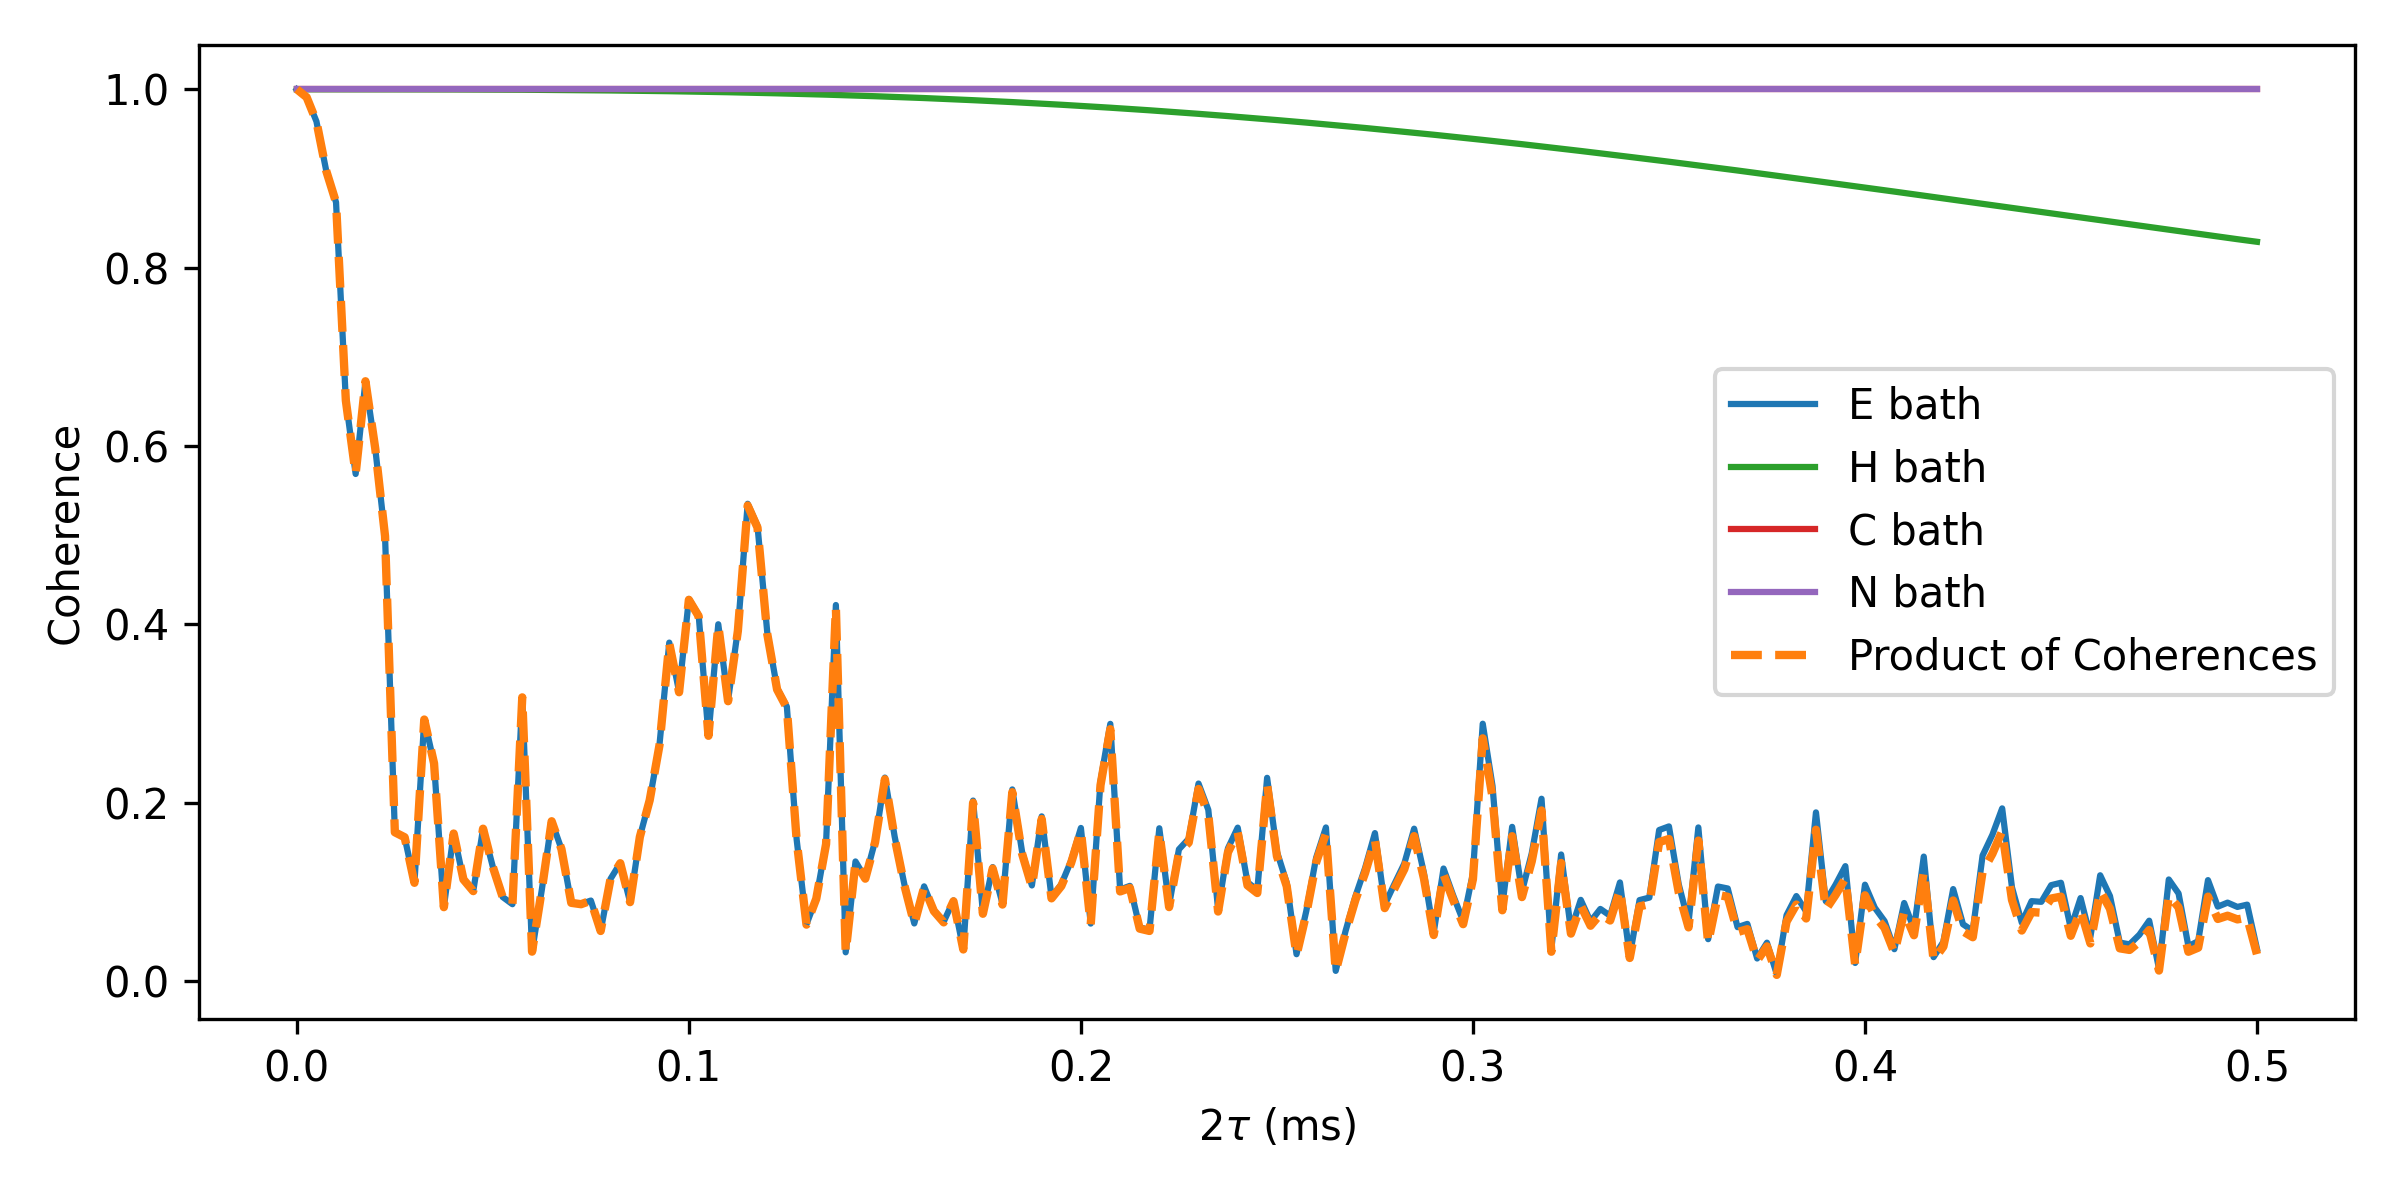
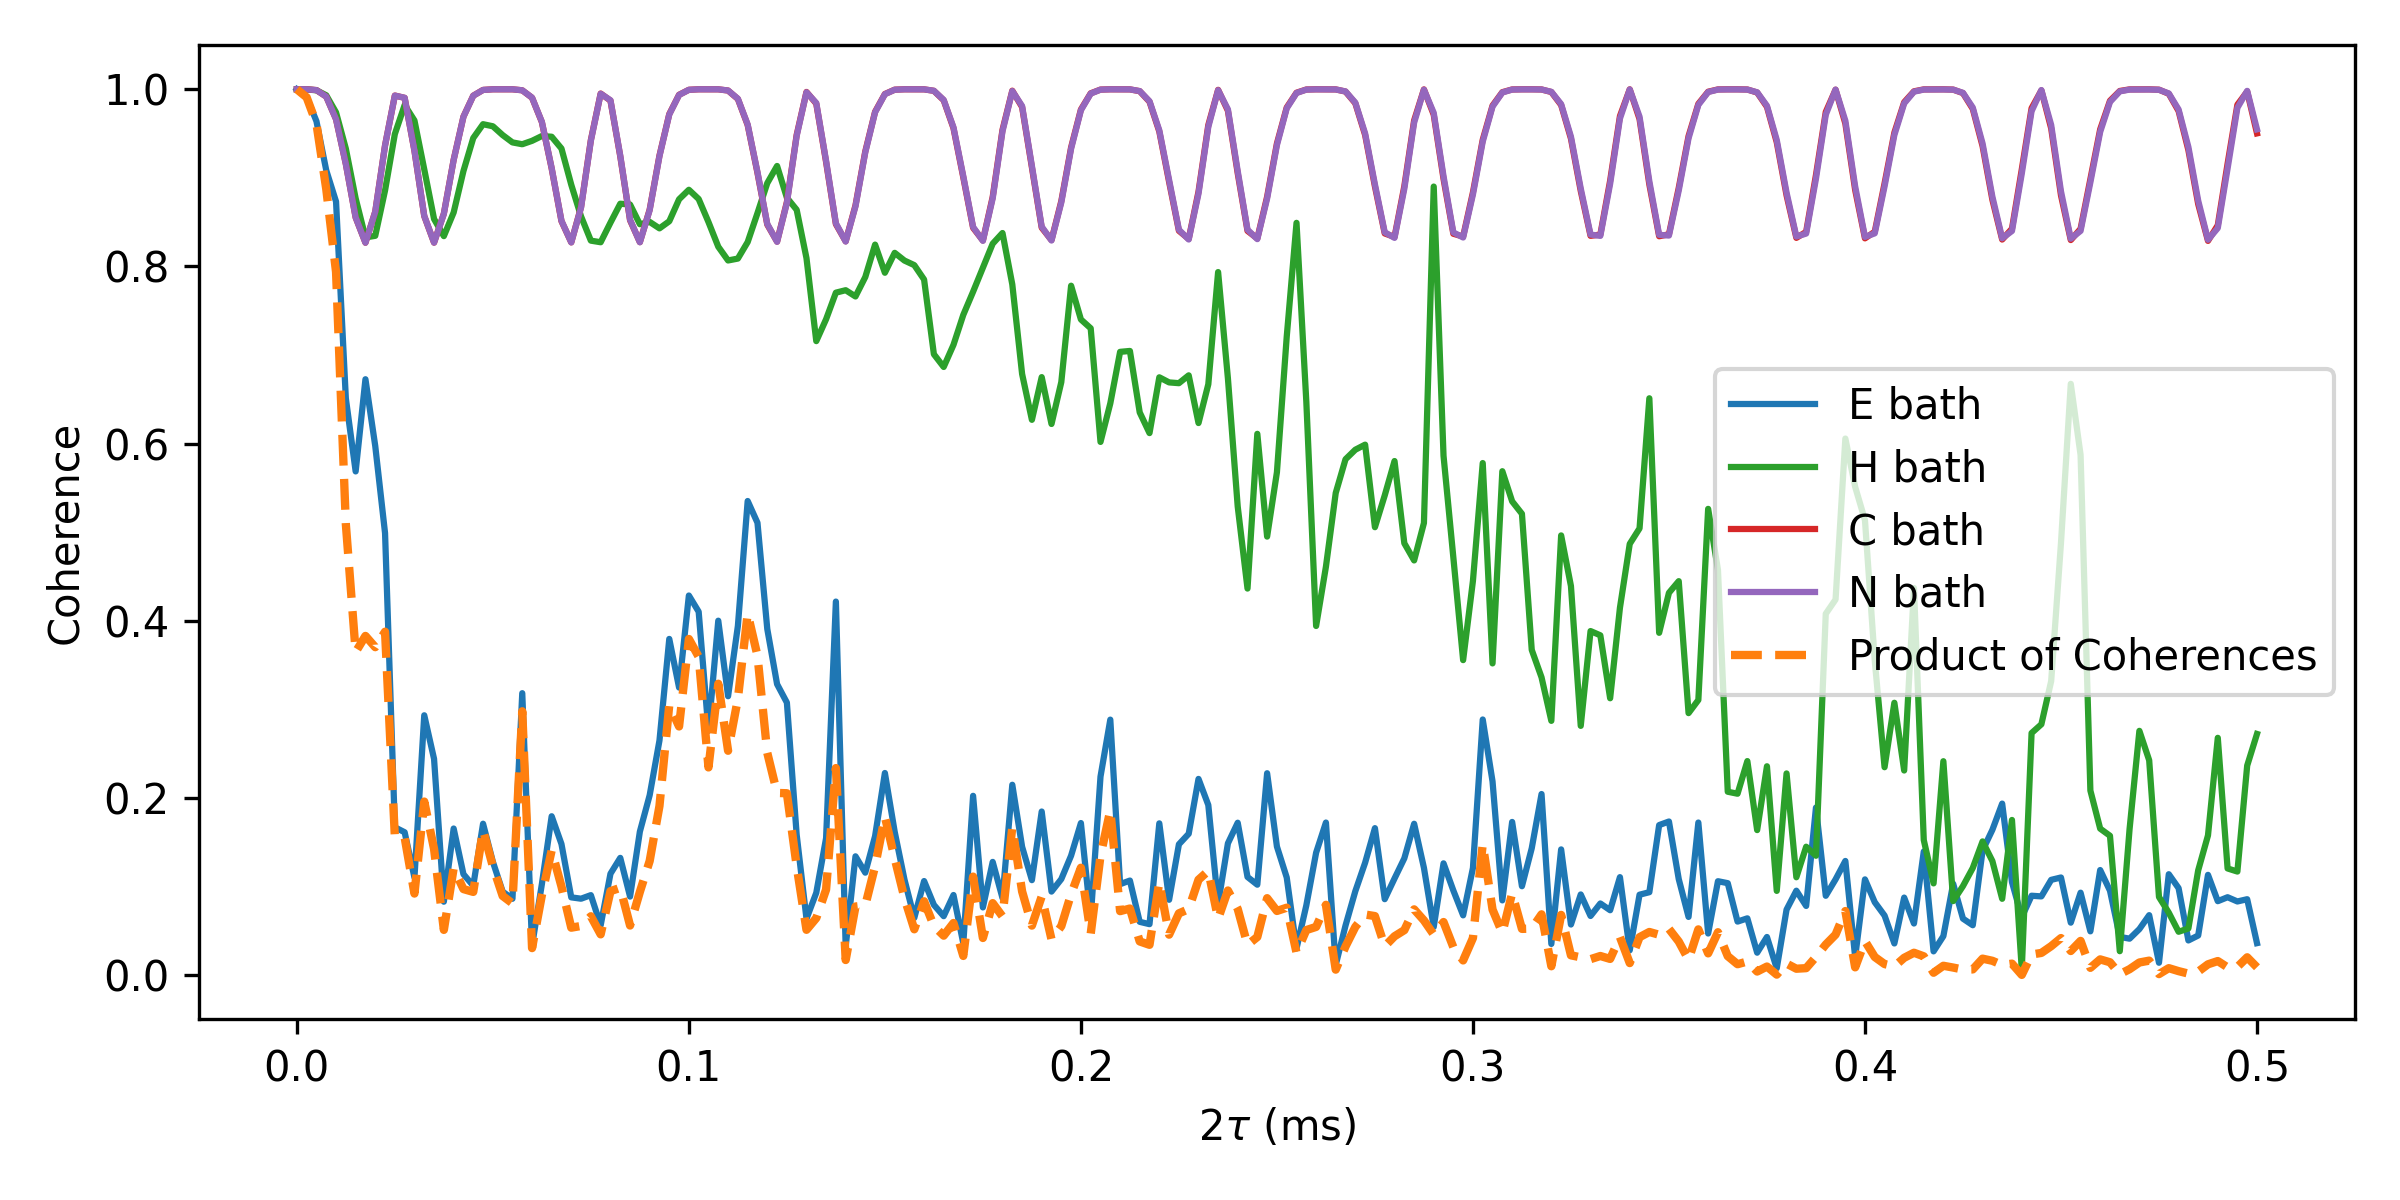
2pi/3 pulse affects nuclear curves considerably!

diff --git a/VOTPP folder/VOTPP_[n-e]-(n).py b/VOTPP folder/VOTPP_[n-e]-(n).py
@@ -139,15 +139,11 @@ nbstates_list = [128,]
 # r_dipole_list = [8,]
 # cell_size_list = [60,]
 
-timespace_absolute = np.linspace(0, 2, 101)
+timespace_absolute = np.linspace(0, 0.5, 201)
 
 hahn_echo_sequence = pc.Sequence([ 
-    pc.Pulse(axis='x', angle='pi/2', delay=np.zeros(timespace_absolute.size),
-                bath_names=('51V',
-                )), # 120° pulse around x-axis applied to bath spins),
-    pc.Pulse(axis='x', angle='pi', delay=timespace_absolute/2,
-                bath_names=('51V',
-                ))]) # 120° pulse around x-axis applied to bath spins ])
+    pc.Pulse(axis='x', angle='2*pi/3', delay=np.zeros(timespace_absolute.size),),
+    pc.Pulse(axis='x', angle='2*pi/3', delay=timespace_absolute/2,)])
 
 default_calc_parameters = {
     'timespace': timespace_absolute, # 7e-2
@@ -182,48 +178,39 @@ default_simulator_parameters = { ########## These should be greater when simulat
 
 magnetic_field_list = [[0,0,3000]]
 # magnetic_field_list = [[0,0,500], [0,0,800], [0,0,1200], [0,0,1500], [0,0,2000], [0,0,3000]]
-bath_type = 'C'
+bath_type = 'N'
+bath_type_list = ['C', 'N', 'H']
+
+if bath_type == 'C':
+    concentration_list = [1313,]
+    default_bath_parameters['concentration'] = 1313
+    r_bath_list = [20, 30, 40,]
+    r_dipole_list = [10, 20, 30,]
+    default_bath_parameters['cell_size'] = 500
+    default_simulator_parameters['r_bath'] = 30
+    default_simulator_parameters['r_dipole'] = 20
+
+elif bath_type == 'N':
+    concentration_list = [1414,]
+    default_bath_parameters['concentration'] = 1414
+    r_bath_list = [5, 10, 15, 20]
+    r_dipole_list = [5, 10, 15, 20]
+    default_bath_parameters['cell_size'] = 100
+    default_simulator_parameters['r_bath'] = 15
+    default_simulator_parameters['r_dipole'] = 5
+
+elif bath_type == 'H':
+    concentration_list = [1111,]
+    default_bath_parameters['concentration'] = 1111
+    r_bath_list = [5, 10, 15, 20]
+    r_dipole_list = [2, 5, 10, 15]
+    default_bath_parameters['cell_size'] = 100
+    default_simulator_parameters['r_bath'] = 10
+    default_simulator_parameters['r_dipole'] = 10
+
 #####################################################################
 # Set up runner and run the simulation
 #####################################################################
-
-# magnetic_field_list = [[500,0,0], [800,0,0], [1200,0,0], [1500,0,0], [2000,0,0], [3000,0,0]]
-# magnetic_field_list = [[0,0,500], [0,0,800], [0,0,1200], [0,0,1500], [0,0,2000], [0,0,3000]]
-# timespace_list = [np.linspace(0, 5e-2, 201), np.linspace(0, 5e-2, 201), np.linspace(0, 5e-2, 201), np.linspace(0, 1e-1, 201), np.linspace(0, 1e-1, 201), np.linspace(0, 1e-1, 201), ]
-# timespace_list = [np.linspace(0, 5e-2, 201), np.linspace(0, 5e-2, 201), np.linspace(0, 5e-2, 201), np.linspace(0, 7e-2, 201), np.linspace(0, 7e-2, 201), np.linspace(0, 7e-2, 201), ]
-
-
-# alphabeta_results = {}
-# for idx, alphabetas in enumerate(alpha_and_beta):
-#     # print(timespace_list[idx])
-#     if rank == 0:
-#         print("Alpha: {}, Beta: {}".format(alphabetas[0], alphabetas[1]))
-#     alphabeta_results[idx] = runner(
-#                         concentration_value=0,
-#                         changing_variable='magnetic_field', variable_values=magnetic_field_list,
-#                         num_spins=2,# spin_type='nuclear',
-#                         alpha=alphabetas[0], beta=alphabetas[1],
-#                         bath_parameters=default_bath_parameters, simulator_parameters=default_simulator_parameters, calc_parameters=default_calc_parameters,
-#                         changing_variable2='timespace', variable_values2=timespace_list[idx],
-#                         )
-    
-#     # Save the current state of alphabeta_results
-#     with open((str(path) + f'alphabeta_order2_results_{idx}.pkl'), 'wb') as f:
-#         pickle.dump(alphabeta_results, f)
-
-
-
-# magnetic_results = {}
-# for conc in concentration_list:
-#     magnetic_results[conc] = runner(
-#                         concentration_value=conc,
-#                         changing_variable='magnetic_field', variable_values=magnetic_field_list,
-#                         num_spins=2,# spin_type='electronic',
-#                         alpha = 4,
-#                         beta = 5,
-#                         bath_parameters=default_bath_parameters, simulator_parameters=default_simulator_parameters, calc_parameters=default_calc_parameters,
-#                         # changing_variable2='timespace', variable_values2=timespace_list,
-#                         )
 
 
 # # seed_list = [8000, 9000, 10000, 11000, 12000, 13000, 14000, 15000]
@@ -248,8 +235,8 @@ bath_type = 'C'
 #                         # concentration_value=seed, # !!!!!!!!!!!!!!!!!!!!!!!!!!!!!!!!!!!!!!!!!!!!!!!!!!!!!!!!!!!!!!!!!!!!!!
 #                         changing_variable='magnetic_field', variable_values=magnetic_field_list,
 #                         num_spins=2, #spin_type='nuclear',
-#                         alpha = 2, #
-#                         beta = 3, #
+#                         alpha = 4, #
+#                         beta = 5, #
 #                         bath_parameters=default_bath_parameters, simulator_parameters=default_simulator_parameters, calc_parameters=default_calc_parameters,
 #                         # changing_variable2='r_bath', variable_values2=r_bath_conc_list,
 #                         )
@@ -260,11 +247,11 @@ bath_type = 'C'
 #         print("Time taken: {} seconds".format(end - start))
 
 #     # Save the current state of results
-#     with open((str(path) + f'magnetic_results_AB1_{bath_type}_{idx}.pkl'), 'wb') as f:
+#     with open((str(path) + f'magnetic_results_AB3_{bath_type}_{idx}.pkl'), 'wb') as f:
 #         pickle.dump(magnetic_results, f)
 
 # if rank == 0:
-#     with open((str(path) + f'[n-e]-(n)_{bath_type}_AB1.pkl'), 'wb') as f:
+#     with open((str(path) + f'[n-e]-(n)_{bath_type}_AB3.pkl'), 'wb') as f:
 #         pickle.dump(magnetic_results, f)
 
 
@@ -585,108 +572,19 @@ bath_type = 'C'
 # if rank == 0:
 #     print("cell_size results done")
 
-if bath_type == 'C':
-    concentration_list = [1313,]
-    r_bath_list = [20, 30, 40,]
-    r_dipole_list = [10, 20, 30,]
-    default_bath_parameters['cell_size'] = 500
-    default_simulator_parameters['r_bath'] = 20
-    default_simulator_parameters['r_dipole'] = 10
 
-elif bath_type == 'N':
-    concentration_list = [1414,]
-    r_bath_list = [5, 10, 15, 20]
-    r_dipole_list = [5, 10, 15, 20]
-    default_bath_parameters['cell_size'] = 100
-    default_simulator_parameters['r_bath'] = 15
-    default_simulator_parameters['r_dipole'] = 5
-
-elif bath_type == 'H':
-    concentration_list = [1111,]
-    r_bath_list = [5, 10, 15, 20]
-    r_dipole_list = [2, 5, 10, 15]
-    default_bath_parameters['cell_size'] = 100
-    default_simulator_parameters['r_bath'] = 10
-    default_simulator_parameters['r_dipole'] = 10
-
-
-# r_bath_results = {}
-# for idx, conc in enumerate(concentration_list):
-#     if rank == 0:
-#         # Start timer
-#         start = time.time()
-
-#     r_bath_results[conc] = runner(
-#                         concentration_value=conc,
-#                         changing_variable='r_bath', variable_values=r_bath_list,
-#                         num_spins=2, #spin_type='nuclear',
-#                         alpha= 4,
-#                         beta=  5,
-#                         bath_parameters=default_bath_parameters, simulator_parameters=default_simulator_parameters, calc_parameters=default_calc_parameters,
-#                         # changing_variable2='timespace', variable_values2=timespace_list,
-#                         )
-    
-#     if rank == 0:
-#         # Print time
-#         end = time.time()
-#         print("Time taken: {} seconds".format(end - start))
-    
-#     # Save the current state of results
-#     with open((str(path) + f'r_bath_results_n_{bath_type}_{idx}.pkl'), 'wb') as f:
-#         pickle.dump(r_bath_results, f)
-
-# if rank == 0:
-#     with open((str(path) + f'[n-e]-(n)_r_bath_order2_{bath_type}_results.pkl'), 'wb') as f:
-#         pickle.dump(r_bath_results, f)
-
-#     print("r_bath results done")
-        
-
-
-
-# r_dipole_results = {}
-# for idx, conc in enumerate(concentration_list):
-#     if rank == 0:
-#         # Start timer
-#         start = time.time()
-
-#     r_dipole_results[conc] = runner(concentration_value=conc,
-#                         changing_variable='r_dipole', variable_values=r_dipole_list,
-#                         num_spins=2, #spin_type='nuclear',
-#                         alpha= 4,
-#                         beta=  5,
-#                         bath_parameters=default_bath_parameters, simulator_parameters=default_simulator_parameters, calc_parameters=default_calc_parameters,
-#                         # changing_variable2='timespace', variable_values2=timespace_list,
-#                         )
-    
-#     if rank == 0:
-#         # Print time
-#         end = time.time()
-#         print("Time taken: {} seconds".format(end - start))
-
-#     # Save the current state of results
-#     with open((str(path) + f'r_dipole_results_n_{bath_type}_{idx}.pkl'), 'wb') as f:
-#         pickle.dump(r_dipole_results, f)
-
-# if rank == 0:
-#     with open((str(path) + f'[n-e]-(n)_r_dipole_order2_{bath_type}_results.pkl'), 'wb') as f:
-#         pickle.dump(r_dipole_results, f)
-
-#     print("r_dipole results done")
-
-
-order_results = {}
+r_bath_results = {}
 for idx, conc in enumerate(concentration_list):
     if rank == 0:
         # Start timer
         start = time.time()
 
-    order_results[conc] = runner(
+    r_bath_results[conc] = runner(
                         concentration_value=conc,
-                        changing_variable='order', variable_values=order_list,
-                        num_spins=2,# spin_type='electron',
-                        alpha=4,
-                        beta=5,
+                        changing_variable='r_bath', variable_values=r_bath_list,
+                        num_spins=2, #spin_type='nuclear',
+                        alpha= 4,
+                        beta=  5,
                         bath_parameters=default_bath_parameters, simulator_parameters=default_simulator_parameters, calc_parameters=default_calc_parameters,
                         # changing_variable2='timespace', variable_values2=timespace_list,
                         )
@@ -697,14 +595,79 @@ for idx, conc in enumerate(concentration_list):
         print("Time taken: {} seconds".format(end - start))
     
     # Save the current state of results
-    with open((str(path) + f'order_results_n_{bath_type}_{idx}.pkl'), 'wb') as f:
-        pickle.dump(order_results, f)
+    with open((str(path) + f'r_bath_results_n_{bath_type}_{idx}.pkl'), 'wb') as f:
+        pickle.dump(r_bath_results, f)
 
 if rank == 0:
-    with open((str(path) + f'[n-e]-(n)_order_{bath_type}_results.pkl'), 'wb') as f:
-        pickle.dump(order_results, f)
+    with open((str(path) + f'[n-e]-(n)_r_bath_order2_{bath_type}_results.pkl'), 'wb') as f:
+        pickle.dump(r_bath_results, f)
 
-    print("order results done")
+    print("r_bath results done")
+        
+
+
+
+r_dipole_results = {}
+for idx, conc in enumerate(concentration_list):
+    if rank == 0:
+        # Start timer
+        start = time.time()
+
+    r_dipole_results[conc] = runner(concentration_value=conc,
+                        changing_variable='r_dipole', variable_values=r_dipole_list,
+                        num_spins=2, #spin_type='nuclear',
+                        alpha= 4,
+                        beta=  5,
+                        bath_parameters=default_bath_parameters, simulator_parameters=default_simulator_parameters, calc_parameters=default_calc_parameters,
+                        # changing_variable2='timespace', variable_values2=timespace_list,
+                        )
+    
+    if rank == 0:
+        # Print time
+        end = time.time()
+        print("Time taken: {} seconds".format(end - start))
+
+    # Save the current state of results
+    with open((str(path) + f'r_dipole_results_n_{bath_type}_{idx}.pkl'), 'wb') as f:
+        pickle.dump(r_dipole_results, f)
+
+if rank == 0:
+    with open((str(path) + f'[n-e]-(n)_r_dipole_order2_{bath_type}_results.pkl'), 'wb') as f:
+        pickle.dump(r_dipole_results, f)
+
+    print("r_dipole results done")
+
+
+# order_results = {}
+# for idx, conc in enumerate(concentration_list):
+#     if rank == 0:
+#         # Start timer
+#         start = time.time()
+
+#     order_results[conc] = runner(
+#                         concentration_value=conc,
+#                         changing_variable='order', variable_values=order_list,
+#                         num_spins=2,# spin_type='electron',
+#                         alpha=4,
+#                         beta=5,
+#                         bath_parameters=default_bath_parameters, simulator_parameters=default_simulator_parameters, calc_parameters=default_calc_parameters,
+#                         # changing_variable2='timespace', variable_values2=timespace_list,
+#                         )
+    
+#     if rank == 0:
+#         # Print time
+#         end = time.time()
+#         print("Time taken: {} seconds".format(end - start))
+    
+#     # Save the current state of results
+#     with open((str(path) + f'order_results_n_{bath_type}_{idx}.pkl'), 'wb') as f:
+#         pickle.dump(order_results, f)
+
+# if rank == 0:
+#     with open((str(path) + f'[n-e]-(n)_order_{bath_type}_results.pkl'), 'wb') as f:
+#         pickle.dump(order_results, f)
+
+#     print("order results done")
 
 #####################################################################
 # Save the results
